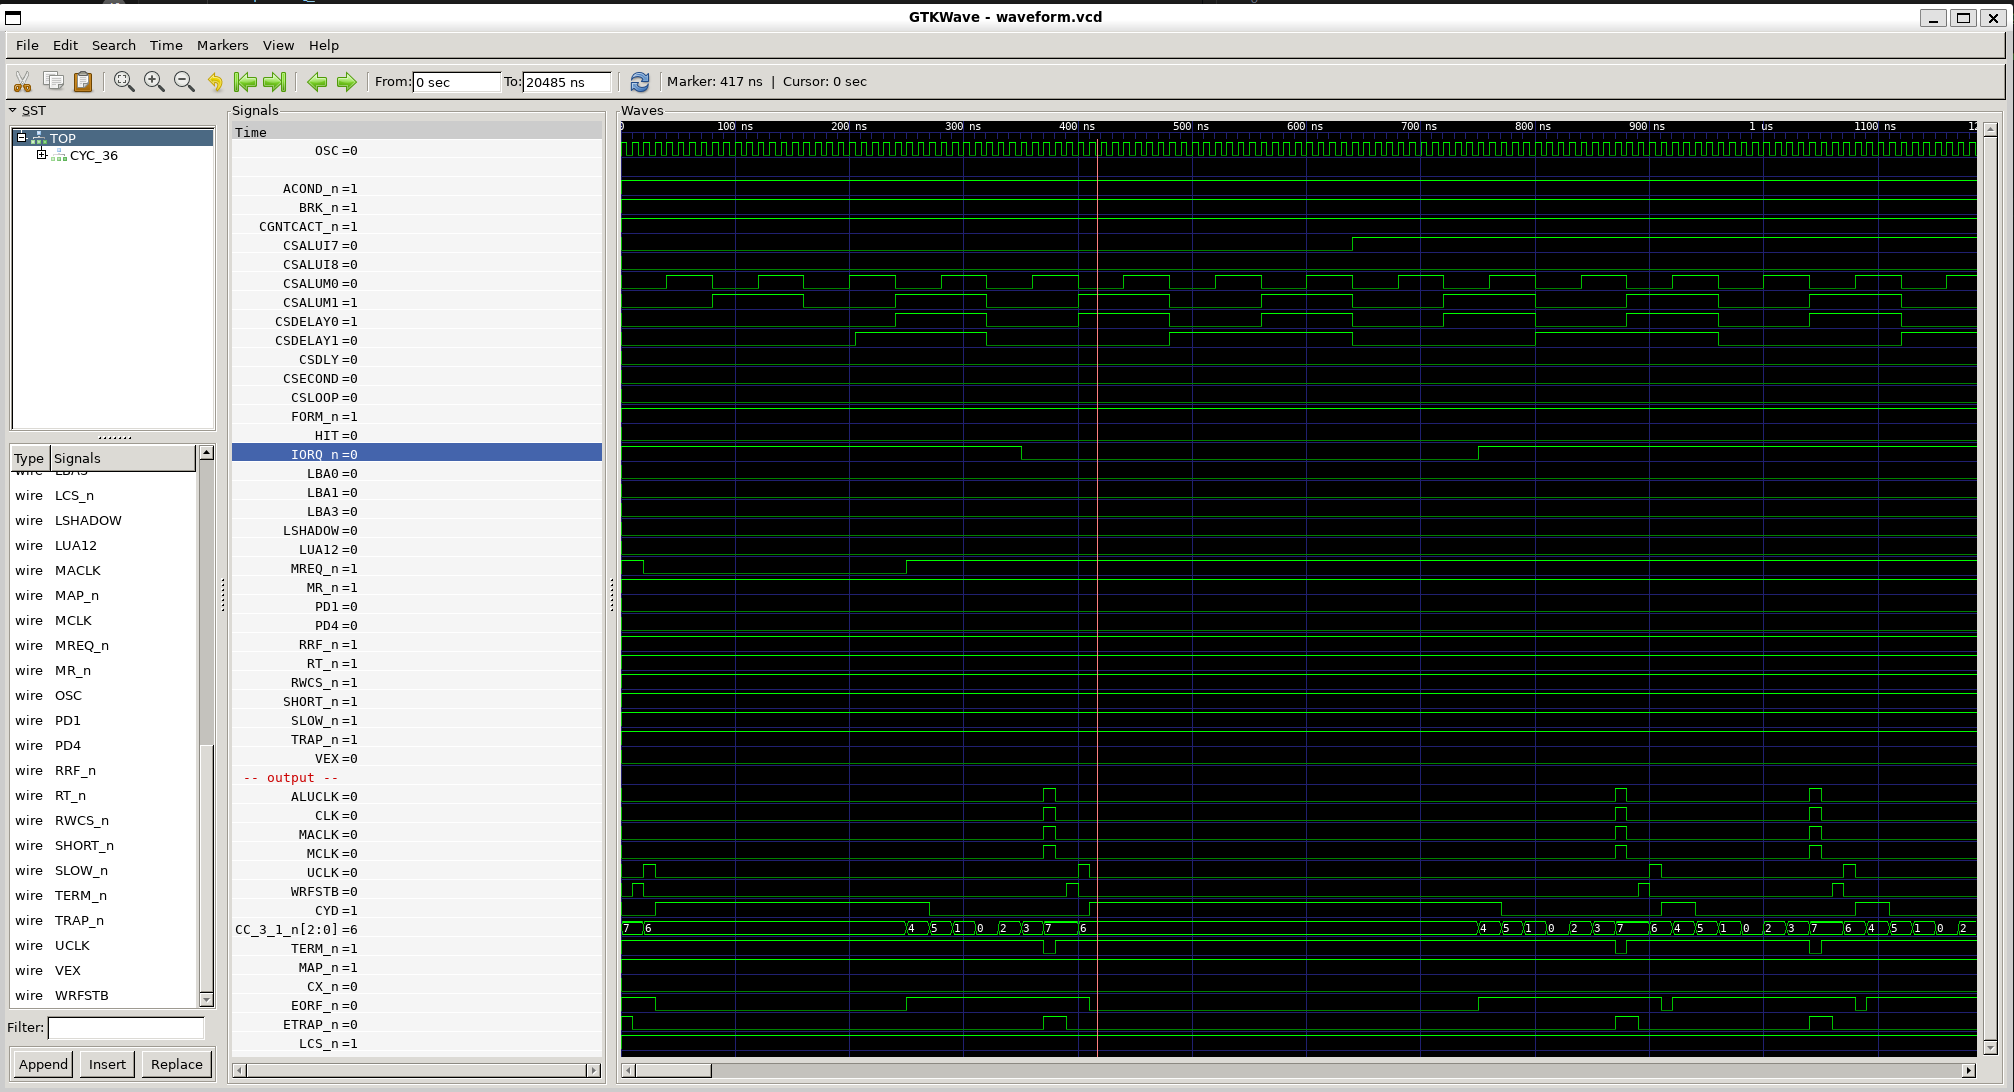
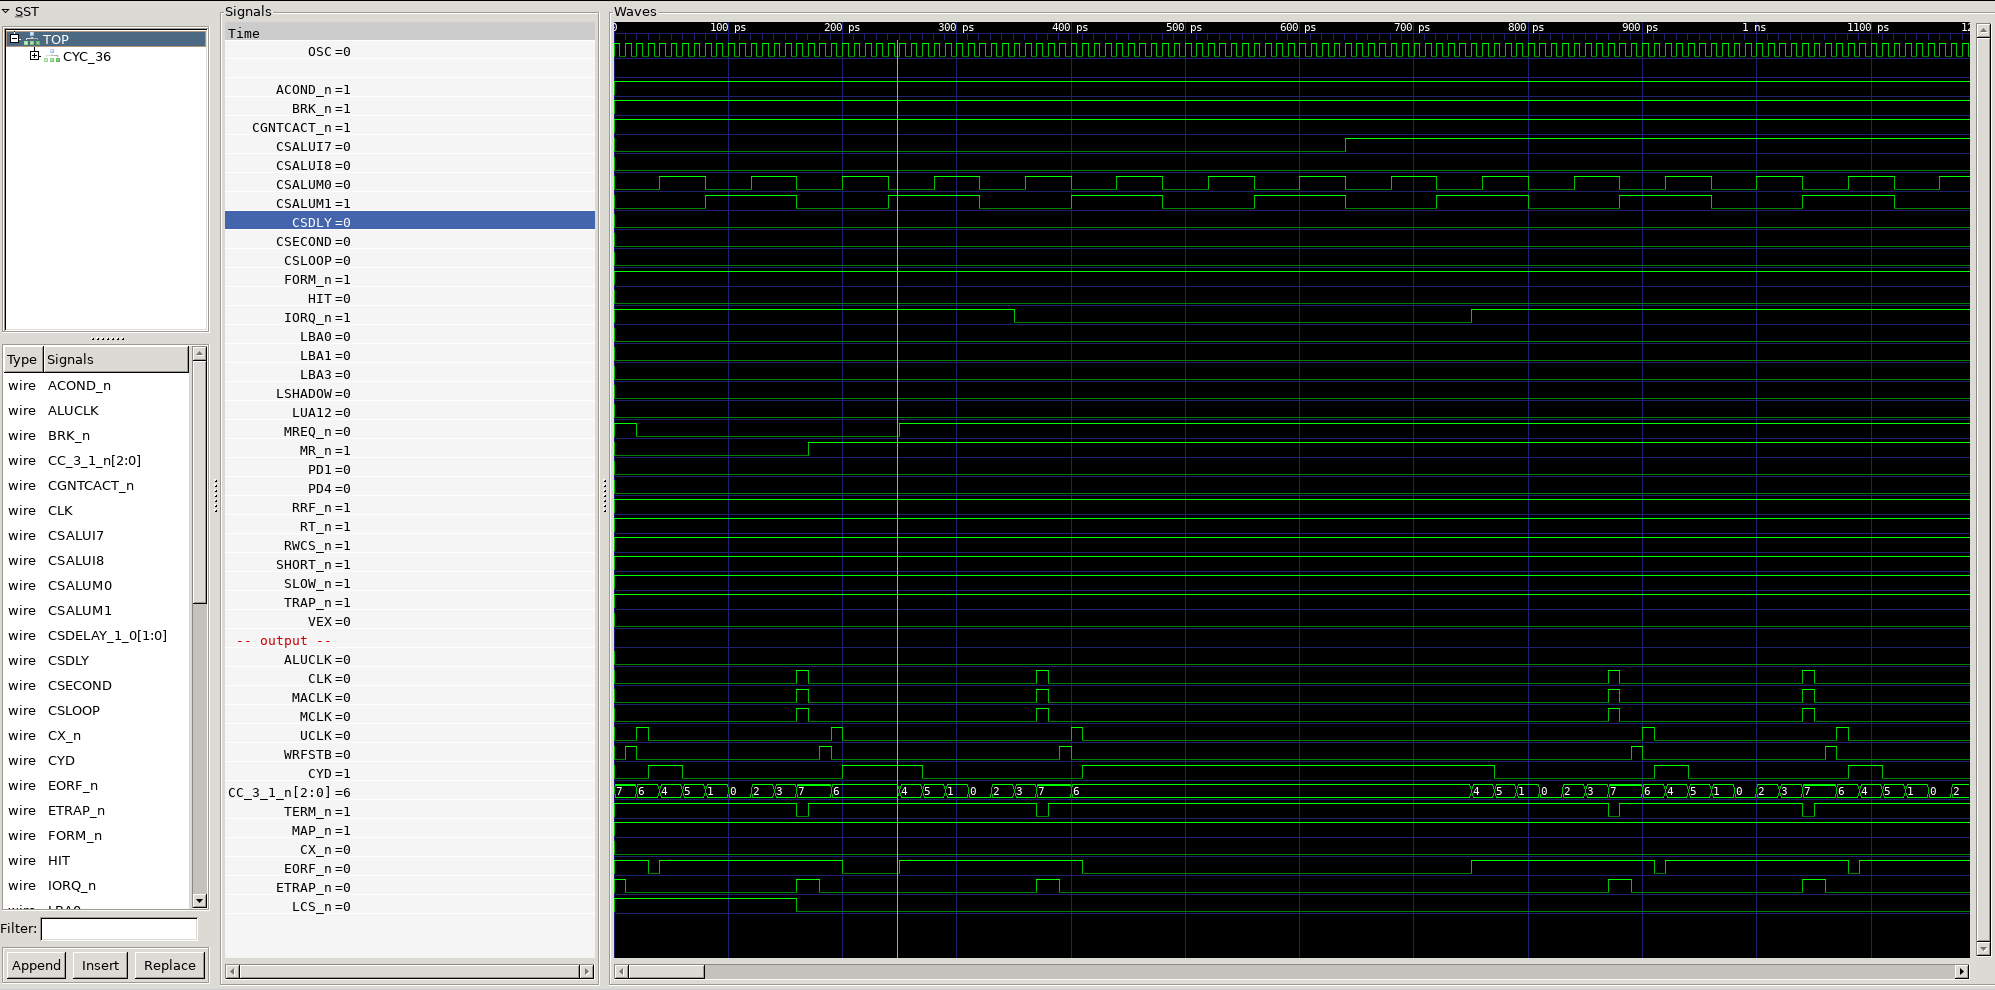
QA and bugfix on Cycle Control and a PAL controlling LCS_n

diff --git a/Verilog/CPU-BOARD-3202/circuit/CYC_36/sim/test_code.cpp b/Verilog/CPU-BOARD-3202/circuit/CYC_36/sim/test_code.cpp
@@ -27,8 +27,8 @@ struct TestCase {
     bool CSALUI8;
     bool CSALUM0;
     bool CSALUM1;
-    bool CSDELAY0;
-    bool CSDELAY1;
+    uint8_t CSDELAY_1_0;
+    
     bool CSDLY;
     bool CSECOND;
     bool CSLOOP;
@@ -108,19 +108,24 @@ int main(int argc, char **argv)
     
 
 
+
+
     int errCnt = 0;
 
    // Default Assignments for input fields
+    top->PD1 = top->PD4 = 0; // Enable PD1 and PD4 (output enable)
+
     top->ACOND_n =             
     top->BRK_n =
     top->CGNTCACT_n = true;
+
+    top->CSDELAY_1_0 = 0;
+
 
     top->CSALUI7 = 
     top->CSALUI8 = 
     top->CSALUM0 = 
     top->CSALUM1 = 
-    top->CSDELAY0 = 
-    top->CSDELAY1 = 
     top->CSDLY = 
     top->CSECOND = 
     top->CSLOOP = false;
@@ -155,6 +160,12 @@ int main(int argc, char **argv)
     //for (const auto& test : testCases) {
     //    std::cout << "Running " << test.description << std::endl;
 
+    // Master Reset
+
+    top->MR_n = false;
+
+    bool clk_has_been_high =false;
+
     for (int i=0; i<4096; i++)
     {
         top->OSC = !top->OSC; // Toggle OSC
@@ -165,14 +176,16 @@ int main(int argc, char **argv)
         top->CSALUM0 = (i & 1<<3)  != 0;        
 
 
+        
+        
+
         if (i==4)
             top->MREQ_n = false;
 
         if (i > 40)
         {
-            top->CSDELAY1 = (i & 1<<5)  != 0;
-            top->CSDELAY0 = (i & 1<<4)  != 0;
-        
+
+            top->CSDELAY_1_0 = (i & 1<<4)  != 0;                    
         }
 
         if (i==50)
@@ -186,6 +199,10 @@ int main(int argc, char **argv)
 
         top->eval();
 
+
+        if (top->CLK) clk_has_been_high= true;
+        if ((!top->CLK) && (clk_has_been_high))
+            top->MR_n =true; // keep "master reset" until CLK is toggled
 
 #ifdef DO_TRACE        
         m_trace->dump(sim_time);

diff --git a/Verilog/PAL/44403C/readme.md b/Verilog/PAL/44403C/readme.md
@@ -1,5 +1,11 @@
 # Verilog code for PAL 44403C (CYIN0)
 
-# Test program verification
 
+
+## Local Control store 
+After a "Master Reset" (MR_n) LCS_n stays low until LUA12 is going high, and then go low.
+
+Indicating that LMA counted from 0 to 8K.
+
+# Test program verification
 ![Screenshot from GTKWave](gtkwave.png)

diff --git a/Verilog/CPU-BOARD-3202/circuit/CYC_36/readme.md b/Verilog/CPU-BOARD-3202/circuit/CYC_36/readme.md
@@ -1,6 +1,6 @@
 # CYCLE CONTROL (CYC)
 
-## CPU Board 3202D - Sheet 46
+## CPU Board 3202D - Sheet 36
 
 # Test program verification
 
